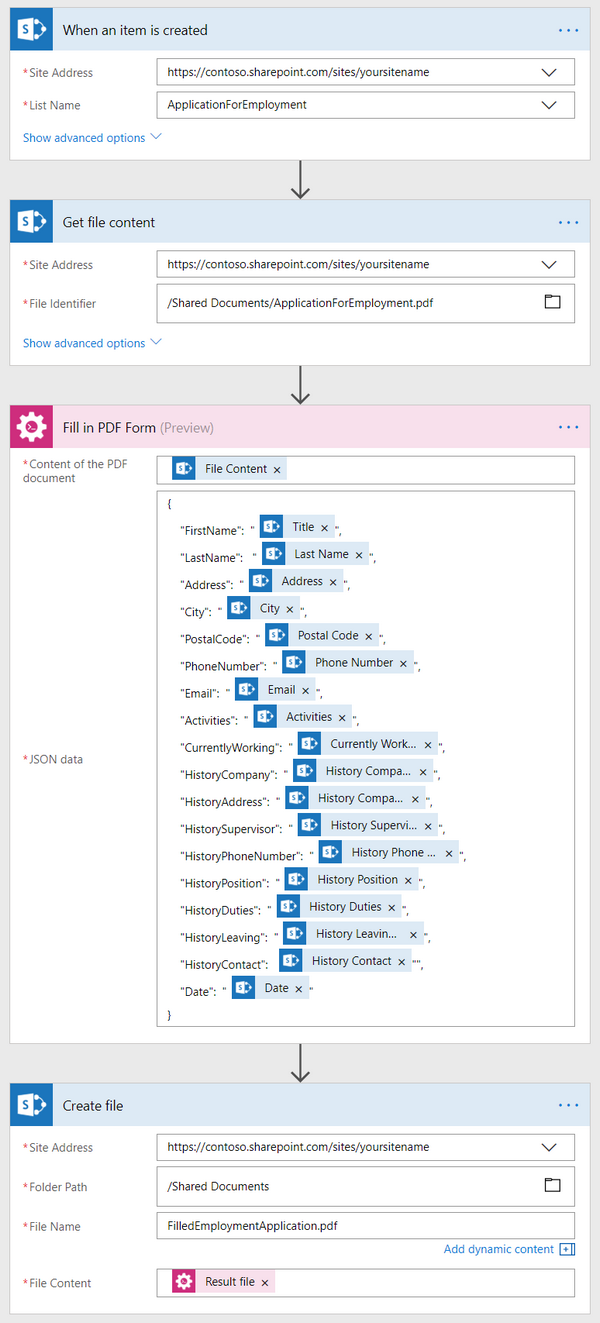
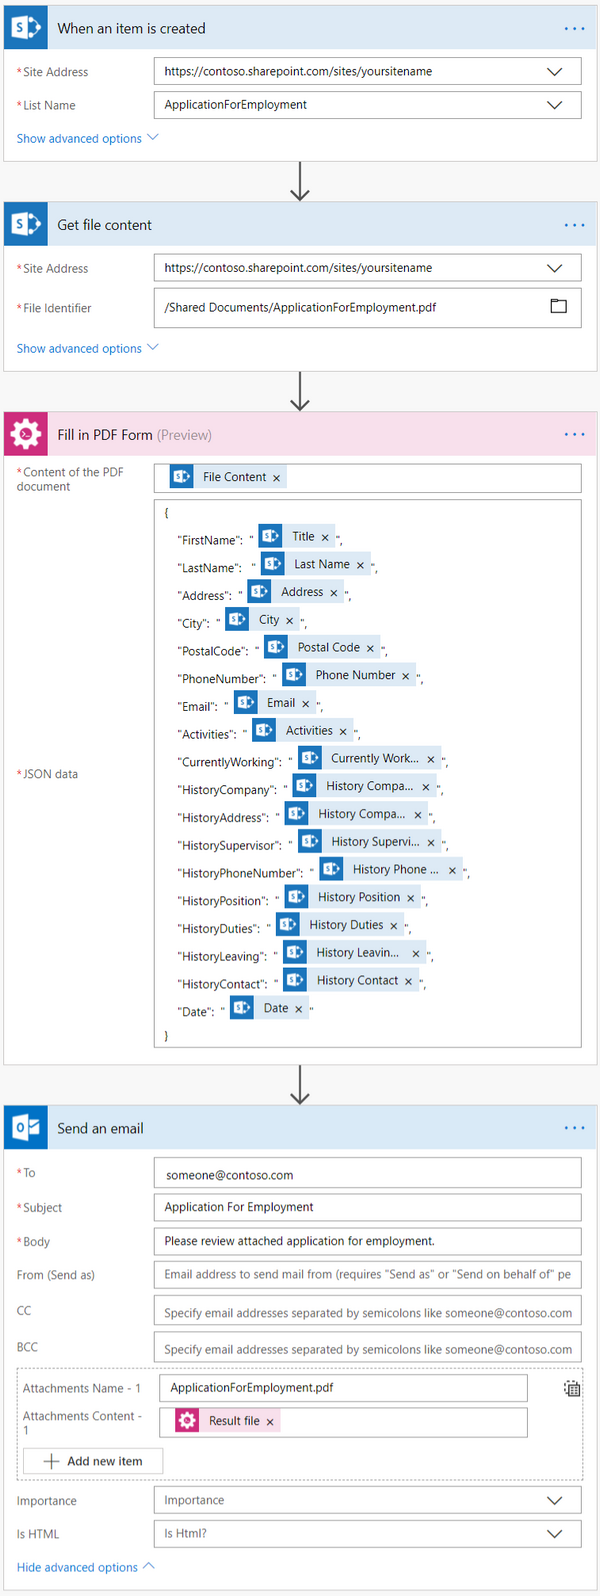
Added send email action to fill-in pdf form how-to

diff --git a/source/flow/how-tos/documents/fill-pdf-form.rst b/source/flow/how-tos/documents/fill-pdf-form.rst
@@ -79,13 +79,15 @@ In the first parameter 'Content of the PDF document', you can put file content f
 
 In the second parameter ‘JSON data’ you can put a JSON object as a source data to fill in your form. Please make sure that you specified the same property names as you used in your fillable PDF. Thus, the action will match properties to fields in PDF and fill them.
 
-Create file action
+Send an Email action
 ~~~~~~~~~~~~~~~~~~
-Now you need to store the PDF file with filled in form somewhere. In our example, we used 'Create file' action from the SharePoint connector to store the PDF file in the SharePoint document library.
+Now you need to send the PDF file with filled in form. In our example, we used 'Send an Email' action from Office 365 Outlook connector.
+
+Please notice how we specified the PDF file. It is essential to specify attachment name with the correct extension.
 
 |fill-in-pdf-form-flow-create-file|
 
-You can use any other connector to store documents into your system.
+You can use any other connector to send or store documents in your system.
 
 Conclusion
 ~~~~~~~~~~
@@ -110,4 +112,4 @@ Now you should have an idea how to use Fill in PDF form action from `Plumsail Do
 .. |fill-in-pdf-form-template| image:: ../../../_static/img/flow/how-tos/fill-in-pdf-form-template.png
 .. |fill-in-pdf-form-flow| image:: ../../../_static/img/flow/how-tos/fill-in-pdf-form-flow.png
 .. |fill-in-pdf-form-flow-get-file| image:: ../../../_static/img/flow/how-tos/fill-in-pdf-form-flow-get-file.png
-.. |fill-in-pdf-form-flow-create-file| image:: ../../../_static/img/flow/how-tos/fill-in-pdf-form-flow-create-file.png
+.. |fill-in-pdf-form-flow-create-file| image:: ../../../_static/img/flow/how-tos/fill-in-pdf-form-flow-send-email.png
